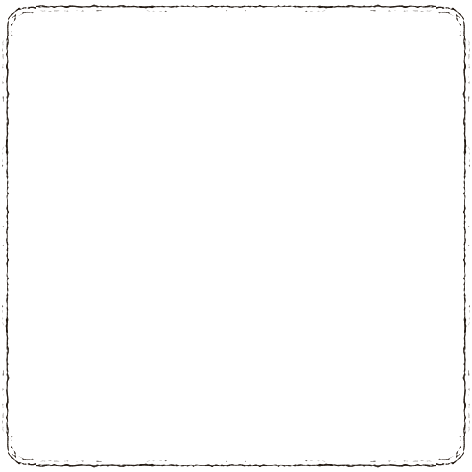
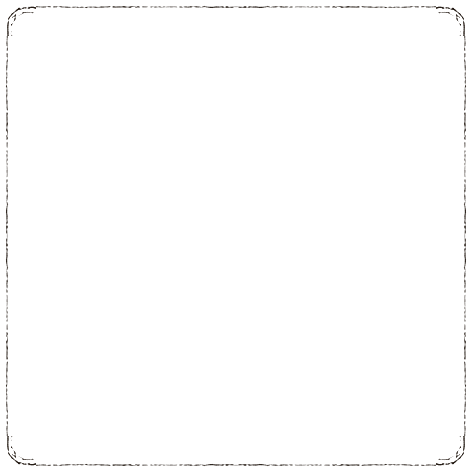
Kill the white edge hairline and soften the frame to a grainy pencil line
Two review fixes:
- The record's near-white background colour peeked a bright hairline at the
  rounded edge where the paper photo doesn't quite reach (read as a white
  outline that vanished at the corners and skipped the bottom). A mid paper
  tone underneath makes the peek invisible.
- The seamless frame edge had over-corrected to a near-solid black line; its
  edge now rips from the same grainy stretch as the row rules, so it reads as a
  textured pencil line — the middle ground between dashes and a hard stroke.

diff --git a/frontend/src/index.css b/frontend/src/index.css
@@ -295,6 +295,10 @@ html:not(.locked-night) .record-paper {
   background-position: top center;
   background-repeat: no-repeat;
   background-size: cover;
+  /* The paper photo covers the card, but its near-white base colour peeked a
+     bright hairline at the rounded edge where the image doesn't quite reach.
+     A mid paper tone underneath makes any such peek invisible. */
+  background-color: #cdb789;
 }
 
 /* Piece 3: the record's hand-drawn frame. A CSS border reads as ink, not
